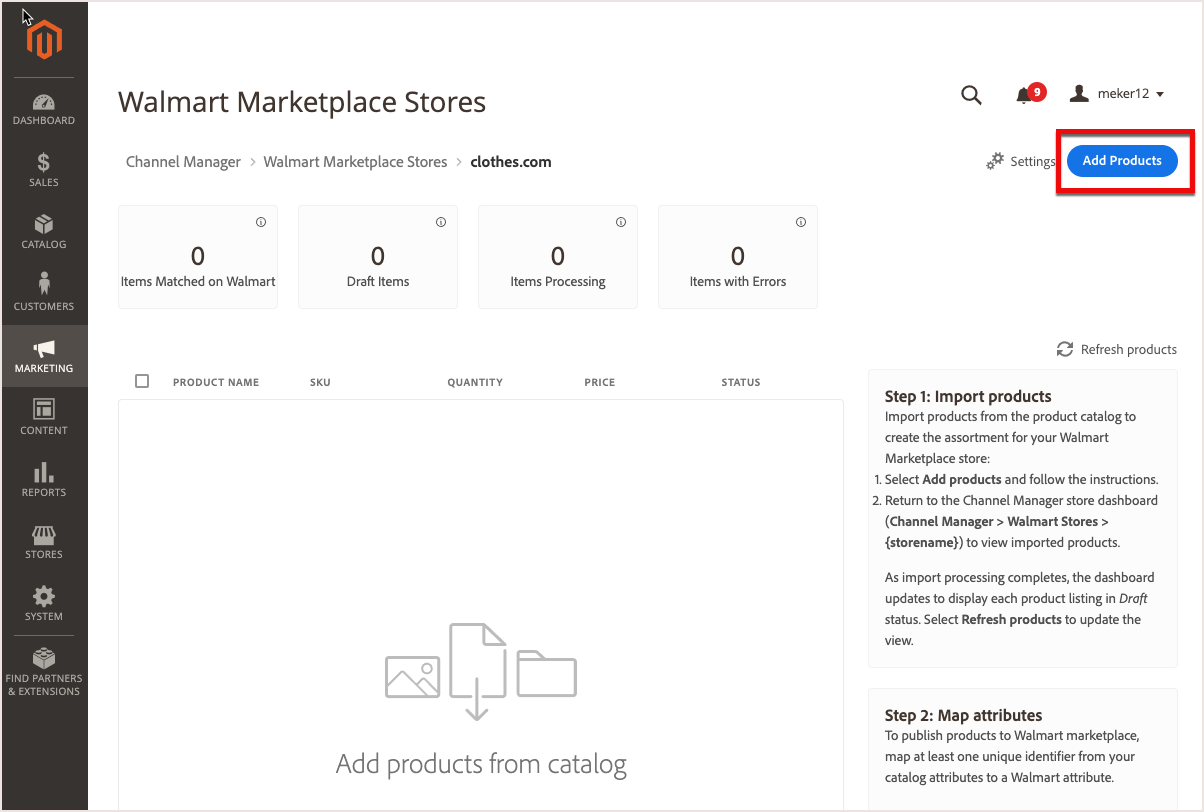
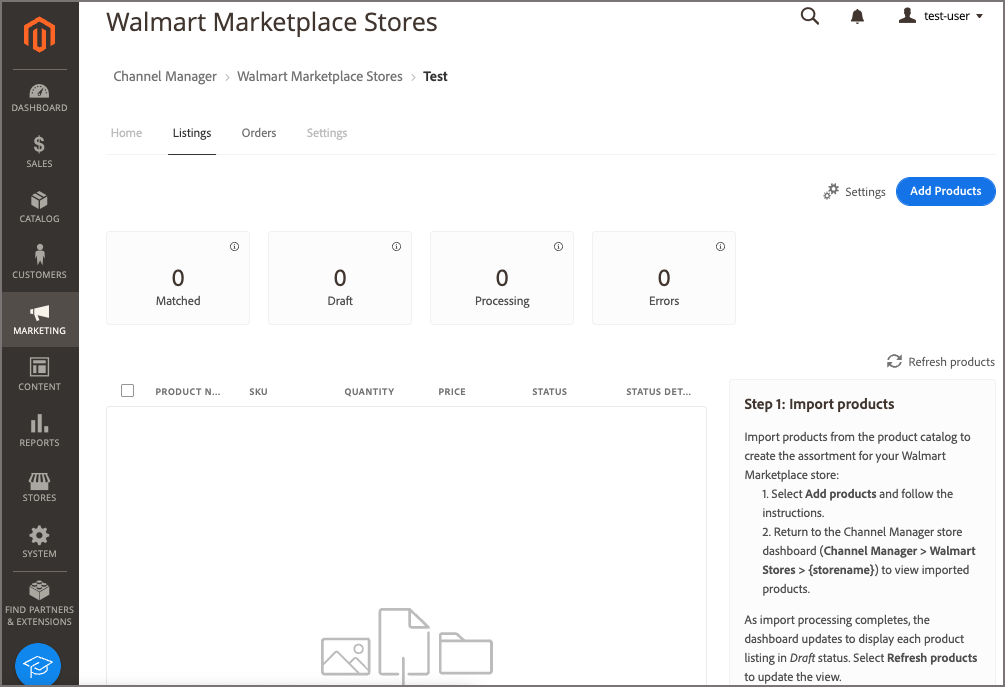
More fixes and screen capture updates

diff --git a/help/channel-manager/manage-listings.md b/help/channel-manager/manage-listings.md
@@ -5,13 +5,21 @@ exl-id: 70999552-9ba7-4b10-a8ee-ee99bc4fe837
 ---
 # Manage listings
 
-Manage product listings for a connected channel from [!UICONTROL Listings] in the channel store view.
+Manage product listings for the [!DNL Walmart Marketplace] sales channel from the [!UICONTROL Listings] in the channel store view. The Status for an individual listing indicates where the product is in the [!DNL Channel Manager] workflow so you can determine next steps and resolve any errors.
 
-Use the *[!UICONTROL Listings]* workspace to manage the [!DNL Commerce] products offered for sale on Walmart Marketplace. The Status for an individual listing indicates where the product is in the [!DNL Channel Manager] workflow so you can determine next steps and resolve any errors.
+The Status for an individual listing indicates where the product is in the [!DNL Channel Manager] workflow so you can determine next steps and resolve any errors.
 
-![Listings page for a connected sales channel](assets/products-submit-for-matching.png)
+![Listings page for a connected sales channel](assets/product-listing-landing.png)
 
-## View listings
+You can complete the following tasks from the Listing view.
+
+* View current listings
+* Sort and filter the listings
+* Add products
+* Match products
+* Track listing status
+
+## View product listings
 
 1. From the Admin, go to [!UICONTROL **Marketing** > Channels > **Channel Manager**].
 
@@ -19,9 +27,15 @@ Use the *[!UICONTROL Listings]* workspace to manage the [!DNL Commerce] products
 
 1. Select [!UICONTROL **Listings**].
 
+1. Sort the *Listing* view by selecting any column heading in the *Listing* table.
+
+1. Filter the *Listing* view by selecting one of the status count cards.
+
+1. Reset the sort order and remove filters by selecting **Refresh products**.
+
 ## Add Commerce products to Channel Manager
 
-Complete the following tasks to create the product assortment for the Walmart Marketplace channel:
+Create the product assortment for the Walmart Marketplace channel by completing the following tasks:
 
 * [Add products from your Commerce product catalog to Channel Manager](add-products-to-connected-channel.md)
 
@@ -31,7 +45,7 @@ Complete the following tasks to create the product assortment for the Walmart Ma
 
 You can create product offers on the Walmart Marketplace using product matching or by manually uploading product listings for new products. For instructions, see [Publish Listings to Walmart Marketplace](publish-listings-to-marketplace.md) as described in the following topics:
 
-* **[Match products on Walmart](publish-listings-to-marketplace.md)**–Publish product listings from your channel to [!DNL Walmart Marketplace] by updating existing listings selling the same product. Match criteria are determined by the [attribute mapping configuration](map-product-attributes-for-matching.md) for your channel.
+* **[Match products on Walmart](publish-listings-to-marketplace.md)**–Publish product listings from your channel to [!DNL Walmart Marketplace] by updating existing listings selling the same product. Match criteria are determined by the [attribute-mapping configuration](map-product-attributes-for-matching.md) for your channel.
 
 * **[Manually upload new listings](publish-listings-to-marketplace.md#upload-new-product-listings)-**–For products that do not match an existing listing on Walmart Marketplace, use a Walmart product category Excel template to bulk upload product listings.
 
@@ -43,9 +57,11 @@ The following tables describe the controls and columns available for [!UICONTROL
 
 | **Control**                            | **Description**                                                                                                                                                                                              |
 |----------------------------------------|--------------------------------------------------------------------------------------------------------------------------------------------------------------------------------------------------------------|
-| [!UICONTROL Refresh products]          | Updates the display with the most current listing and status.                                                                                                                                                |
 | [!UICONTROL Add Products]              | Opens the [!UICONTROL Admin Product Catalog] page to select products to add to your [!DNL Walmart Marketplace] assortment, or to update product attributes to meet Walmart Marketplace listing requirements. |
 | [!UICONTROL Match products on Walmart] | After selecting one or more products in Draft status, select Match products on Walmart to check for product offers that can be added to an existing [!DNL Walmart Marketplace] listing.                      |
+| [!UICONTROL Refresh products]          | Update the display with the most current listing and status. This control also resets the listing view to the default sort order and removes any filters.                                                    |
+| [!UICONTROL Filter by *Status*]        | Show only listings with a specific status by selecting one of the status count cards above the Listing table. Use the *Refresh products* to remove the filter.                                               |
+| [!UICONTROL Sort products]             | Change the sort order for listing by selecting any column header.                                                                                                                                            |
 
 
 **Column descriptions**
@@ -57,7 +73,7 @@ The following tables describe the controls and columns available for [!UICONTROL
 | [!UICONTROL  Quantity]       | Amount of inventory available in Adobe Commerce or Magento Open Source.                                                                                                                                                                                                                                                                                                                                               |
 | [!UICONTROL Price]           | The product price from the [!DNL Commerce] store catalog. Catalog price updates are synced to Channel Manager, and then sent to [!DNL Walmart Marketplace]  so that listed items show the current price.                                                                                                                                                                                                              |
 | [!UICONTROL Status]          | Indicates the current order status in the [!DNL Commerce] order workflow. The status updates when you successfully add products to [!DNL Channel Manager] and when you match products on the marketplace. If an operation fails, the listing shows an error status. After you fix the error, [!DNL Channel Manager] retries the operation and updates the status.                                                     |
-
+| [!UICONTROL Status Detail]   | Provides additional information for products with *Error* or *Match* status.                                                                                                                                                                                                                                                                                                                                          |
 
 ### About Listing Status              
 
@@ -73,9 +89,8 @@ In the Listing workspace, the Status label shows where a product is in the [!DNL
 
     Check the [[!UICONTROL Walmart Marketplace Seller Account Items]](https://seller.walmart.com/items-and-inventory/manage-items) dashboard to review the updated product listing and verify product details, price, and inventory quantity.  
 
+* **[!UICONTROL Match - Match in Stage]**–Identifies products matched on [!DNL Walmart] that cannot be published until the [!DNL Walmart Marketplace] store is live. Products with this status publish automatically when the [!DNL Walmart Marketplace] store goes live.
 
 * **[!UICONTROL Error]**–Identifies products that were not matched to an existing [!DNL Walmart Marketplace] listing. View error details by hovering over the *Error* status label.
 
-  After you resolve the error, resubmit the product for matching. See [Troubleshoot product match errors](https://docs.google.com/document/d/1bEbCyVLXJQQsbZvEwetJvZKWQJOKoiw5Ia1uB4Bs4uo/edit#heading=h.sz6eji8z9vzy).
-
-* **[!UICONTROL Error - Match in Stage]**–Identifies products matched on [!DNL Walmart] that cannot be published until the [!DNL Walmart Marketplace] store is live. Products with this status publish automatically when the [!DNL Walmart Marketplace] store goes live.
+  After you resolve the error, resubmit the product for matching. See [Troubleshoot product match errors](publish-listings-to-marketplace.md#troubleshoot-product-match-errors).

diff --git a/help/channel-manager/overview.md b/help/channel-manager/overview.md
@@ -8,29 +8,27 @@ exl-id: 91265973-d2ad-4925-aa10-260d7e186f20
 
 # About [!DNL Channel Manager]
 
-Channel Manager for Adobe Commerce and Magento Open Source provides a convenient workspace in the Admin to manage channel sales on third-party marketplaces like Walmart, Amazon, and eBay. Increase sales and expand to new markets while managing sales channel operations seamlessly from your Commerce Admin.
+[!DNL Channel Manager] helps you increase sales and reach new customers by integrating your Adobe Commerce or Magento Open Source product catalog with the [!DNL Walmart US Marketplace].
 
-![[!DNL Channel Manager] extension Admin view](assets/channel-manager-admin-entry-page.png)
+![[!DNL Channel Manager] extension Admin view](assets/channel-manager-home.png)
 
-## Beta release overview
+After you install and configure [!DNL Channel Manager], the [!DNL Commerce] Admin is extended so you can manage [!DNL Walmart Marketplace] sales operations seamlessly from your Commerce environment.
 
-The Beta release of Channel Manager supports Adobe Commerce or Magento Open Source sellers who want to sell on [!DNL Walmart Marketplace].
+* **Listing management**–Easily publish product listings by matching products from your Commerce catalog to existing Walmart Marketplace listings.
 
-This release supports the following capabilities to manage sales channel operations:
+* **Inventory Management**–Items in the merchant’s marketplace seller account are automatically synchronized and updated from Commerce to ensure accurate inventory levels.
 
-* Establish an API connection between Adobe Commerce or Magento Open Source and Walmart Marketplace
+* **Pricing updates**–Maintain accurate pricing for marketplace listings with automatic price synchronization. When a price changes in Adobe Commerce, the changes are reflected in the marketplace within 10 minutes.
 
-* Publish products from Channel Manager to Walmart using product matching
+* **Order management**–When new orders are created in a marketplace, Channel Manager synchronizes orders with Adobe Commerce and sends order acknowledgments to the marketplace to ensure inventory is reserved for each order.
 
-* Manage product listings and track status
+* **Shipping Management**–When orders are marked as shipped in Adobe Commerce, the shipment update is sent to the [!DNL Walmart Marketplace]. This notification ensures that sellers meet their fulfillment SLA requirements and that customers receive shipping update notifications for their current orders.
 
-* Sync inventory quantities for matched products from Commerce to Walmart
+* **Cancellations**–When orders are canceled in Adobe Commerce, Channel Manager sends updated order information to the marketplace to replicate the action for the corresponding marketplace order. 
 
-* Sync catalog pricing for matched products from Commerce to Walmart
+[!DNL Channel Manager] supports Adobe Commerce or Magento Open Source sellers who want to sell on [!DNL Walmart Marketplace].
 
-* Receive orders from Walmart Marketplace and view them in the [!DNL Commerce] order dashboard
-      
-### Expected latency for Channel Manager operations
+## Expected latency for Channel Manager operations
 
 The data synchronization processes between [!DNL Channel Manager] and a linked [!DNL Walmart Marketplace] store require some time to complete. Review the expected processing time for [!DNL Channel Manager] operations to help plan sales channel operations work.
 
@@ -40,7 +38,7 @@ The data synchronization processes between [!DNL Channel Manager] and a linked [
 |--------------------------------------------|-----------------------------------------------------------------------------------------------------------------------------------------------|---------------------------------------------------------------------------------------------------------------------------|
 | Add products to Channel Manager            | Select products from the Commerce product catalog and import them into Channel Manager.                                                       | **Up to 5 minutes**–If you select many products, for example, an entire product catalog, the import process takes longer. |
 | Match products on Walmart Marketplace      | Select product listings in Channel Manager and send to Walmart for matching.                                                                  | **Up to 30 minutes**–If you select many products, the matching process takes longer depending on the quantity selected.   |
-| Inventory updates                          | When inventory quantity changes in Commerce, [!DNL Channel Manager] syncs the update to Walmart.                                                  | **Up to 10 minutes**                                                                                                      |
+| Inventory updates                          | When inventory quantity changes in Commerce, [!DNL Channel Manager] syncs the update to Walmart.                                              | **Up to 10 minutes**                                                                                                      |
 | Price updates                              | When a product price changes, Channel Manager syncs the update to Walmart.                                                                    | **Up to 5 minutes**                                                                                                       |
 | Order syncs from Walmart to Commerce       | Customer orders a Commerce product on the Walmart Marketplace. Walmart sends the order to Channel Manager. Order displays in order dashboard. | **Up to 30 minutes**                                                                                                      |
 | Order created in Commerce Order Management | Channel Manager creates the Commerce order from the Walmart order and updates the order dashboard to include the Commerce order number.       | **Up to 5 minutes**                                                                                                       |

diff --git a/help/channel-manager/publish-listings-to-marketplace.md b/help/channel-manager/publish-listings-to-marketplace.md
@@ -21,7 +21,7 @@ If a match is found, the existing product listing is updated to add your offer.
 
 ### Prerequisites
 
-Before matching products, verify that your product catalog attribute values meet Walmart requirements and configure attribute settings. See [Configure product matching](map-product-attributes-for-matching.md)
+Before matching products, verify that your product catalog attribute values meet Walmart requirements and configure attribute settings. See [Configure product matching](map-product-attributes-for-matching.md).
 
 #### Select and match products
 
@@ -35,27 +35,29 @@ Before matching products, verify that your product catalog attribute values meet
 
    A message indicates the number of products sent for matching.
 
-   ![Send products to the connected sales channel](assets/products-submit-for-matching.png)
+   ![Send products to the connected sales channel](assets/products-submitted-for-matching.png)
    
    The status for selected products changes to [!UICONTROL *Processing*] until the match operation completes. It can take up to 30 minutes for Walmart Marketplace to complete the match operation.
 
 ### Check match status
 
-1.  Select **Refresh products** to update the most current product status.
+1.  Select **Refresh products** to view the current product status.
 
 1.  Check the product status.
 
-    After the match completes, the status can be *Match* or *Error*.
+After the match completes, the status can be *Match* or *Error*.
 
-    * **[!UICONTROL Match]** indicates that the product was successfully matched. Your product offer was published to an existing Walmart Marketplace listing.
+* **[!UICONTROL Match]** indicates that the product was successfully matched. Your product offer was published to an existing Walmart Marketplace listing. If the [Marketplace store is not active](walmart-prerequisites.md#walmart-marketplace-store-status), *[!UICONTROL Staged for Match]* is displayed in the *[!UICONTROL Status detail]* column.
 
-    * **[!UICONTROL Error]** indicates one of the following:
+If your [[!DNL Walmart Marketplace] store is not active](walmart-prerequisites.md#walmart-marketplace-store-status), the *Status Detail* column indicates that the product is *Staged for Match*. Staged products are published  automatically as soon as the [!DNL Walmart Marketplace] store is activated.
 
-      * An error occurred and the match operation failed.
+* **[!UICONTROL Error]** indicates one of the following:
 
-      * No match was found.
+  * An error occurred and the match operation failed.
 
-      * Match found, but product published as staged because the [Marketplace store is not active](walmart-prerequisites.md#walmart-marketplace-store-status).
+  * No match was found.
+
+  * Match found, but the listing cannot be published due to an error returned from Walmart marketplace.  either missing an attribute, or published as staged because the [Marketplace store is not active](walmart-prerequisites.md#walmart-marketplace-store-status).
 
 ### Check listing on Walmart
 
@@ -63,9 +65,9 @@ After matching products, review the updated product listing and verify product d
 
 ### Troubleshoot product match errors
 
-If the product match operation fails, the Walmart Marketplace returns an error code and Channel Manager displays the error status in the product listing information.
+If the product match operation fails with an error, the error message is displayed in the *[!UICONTROL Status detail]* column in the [!UICONTROL Channel Manager] product listing.
 
-View error messages detail by hovering over the **Error** status label. Common errors returned are incorrectly formatted Product ID values or missing required attributes.
+Common errors returned are incorrectly formatted Product ID values or missing required attributes.
 
 #### Fix Product ID values
 

diff --git a/help/channel-manager/add-products-to-connected-channel.md b/help/channel-manager/add-products-to-connected-channel.md
@@ -1,10 +1,10 @@
 ---
-title: Add products to connected channel
-description: Create product assortment for Marketplace sales by adding products from the catalog to the sales channel
+title: Add products to sales channel store
+description: Create product assortment for [!DNL Walmart Marketplace] sales by adding products from the catalog to the sales channel
 exl-id: 00932df7-bdc7-42a1-b269-88dffcc918bc
 ---
 
-# Add products to connected channel
+# Add products to sales channel store
 
 To sync products to the Walmart Marketplace sales channel, you select products from the [!DNL Commerce] product catalog and import them to Channel Manager. The selected products must have the following attribute configuration:
 
@@ -14,17 +14,17 @@ To sync products to the Walmart Marketplace sales channel, you select products f
 
 The process to import products from [!DNL Commerce] to Channel Manager can take up to 30 minutes or more depending on how many products you select.
 
-## Add products to sales channel
+## Add products to sales channel store
 
 1. From a connected sales channel store, select **Add products** to open the product catalog.
    
-   ![Add products to connected channel](assets/add-initial-products-to-connected-channel.png)
+   ![Add products to sales channel store](assets/add-initial-products-to-connected-channel.png)
 
    The catalog opens in a new tab.
 
 1. From the catalog product grid, select products to sell on [!DNL Walmart Marketplace].
 
-   ![Send products to the connected channel](assets/select-products-from-catalog.png)
+   ![Send products to the sales channel store](assets/select-products-from-catalog.png)
 
 1. Enable the **[!UICONTROL Publish to Channel Manager]** attribute for the selected items.
 

diff --git a/help/channel-manager/complete-store-setup.md b/help/channel-manager/complete-store-setup.md
@@ -15,10 +15,10 @@ After you connect a Commerce store to [!DNL Walmart Marketplace], complete store
 
 1. Begin sales channel operations.
 
-   - [Add products from your Commerce Catalog to Channel Manager](add-products-to-connected-channel.md)
+   - [Add products from your [!DNL Commerce Catalog] to Channel Manager](add-products-to-connected-channel.md)
 
-   - [Publish product listings to Walmart using product matching](publish-listings-to-marketplace.md)
+   - [Publish product listings to [!DNL Walmart] using product matching](publish-listings-to-marketplace.md)
 
-   - [Learn how Channel Manager syncs inventory and price updates between Commerce and Walmart](inventory-and-price-updates.md)
+   - [Learn how [!DNL Channel Manager] syncs inventory and price updates between Commerce and Walmart](inventory-and-price-updates.md)
 
-   - View and manage Walmart orders from the Commerce Admin
+   - [View and manage [!DNL Walmart] orders from the [!DNL Commerce Admin]](manage-orders.md)

diff --git a/help/channel-manager/manage-orders.md b/help/channel-manager/manage-orders.md
@@ -25,7 +25,7 @@ exl-id: c2779c72-4793-445c-858a-867ea8389662
 
 After an order is received from the marketplace and imported into the Adobe Commerce or Magento Open Source, use the [!DNL Commerce] Order ID to view the order in Adobe Commerce.
 
-From **[!UICONTROL Orders]**, select the [!UICONTROL Commerce Order Number] to open the [!DNL Commerce]  order detail.
+From **[!UICONTROL Orders]**, select the **[!UICONTROL Commerce Order Number]** to open the [!DNL Commerce] order detail.
 
 ![Commerce Order detail view for a Walmart Marketplace order](assets/order-detail-with-external-order-id.png)
 

diff --git a/help/channel-manager/install.md b/help/channel-manager/install.md
@@ -33,7 +33,7 @@ Both methods require you to use the Command Line Interface (CLI).
 
 >[!NOTE]
 >
->For help installing [!DNL Commerce] software using the CLI, see [General CLI Installation](https://devdocs.magento.com/extensions/install/){target="_blank"}. 
+>For help with installing [!DNL Commerce] software using the CLI, see [General CLI Installation](https://devdocs.magento.com/extensions/install/){target="_blank"}. 
 
 ### Install on an on-premises instance
 

diff --git a/help/channel-manager/TOC.md b/help/channel-manager/TOC.md
@@ -24,4 +24,6 @@ hide: yes
   - [Publish Listings to Walmart](publish-listings-to-marketplace.md)
 - Inventory and Pricing {#inventory-pricing}
   - [Update Inventory and Pricing](inventory-and-price-updates.md)
-- [Manage Marketplace Orders](manage-orders.md)
+- [Manage Orders]{#manage-orders}
+  - [View and Track Orders](manage-orders.md)
+
